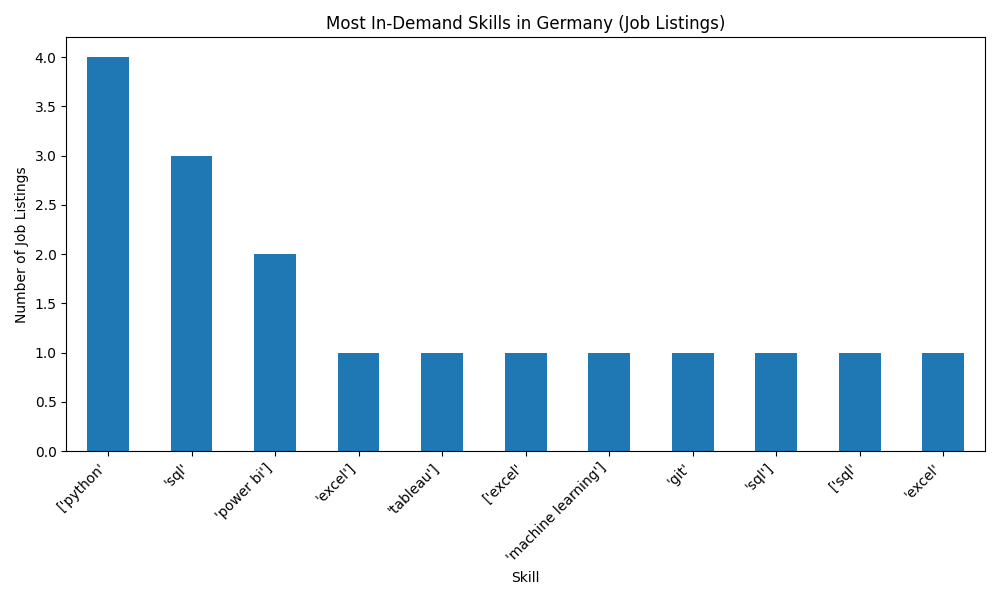
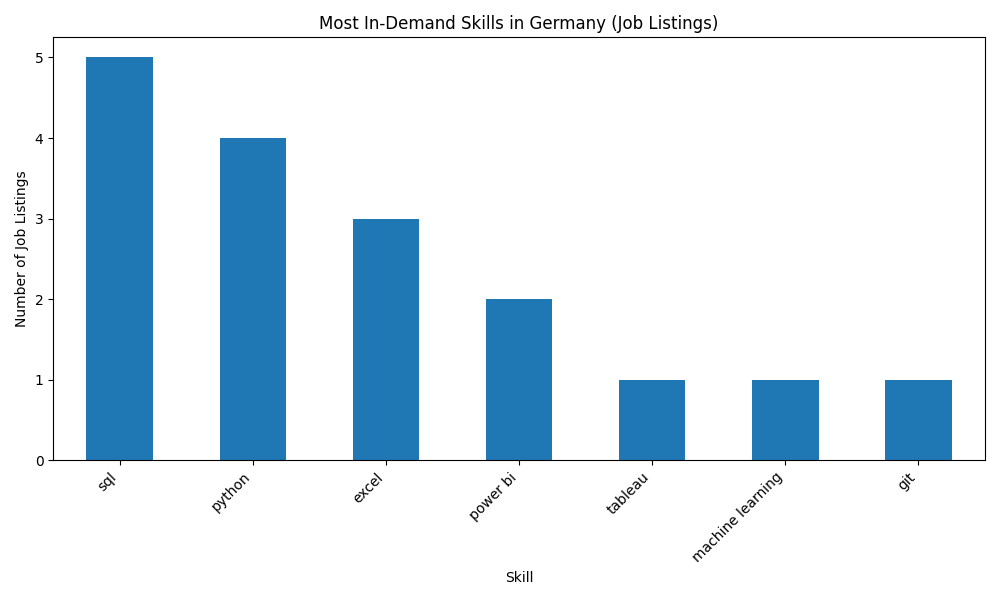
Fix pie chart: replace Series.append() with pd.concat() for pandas 2.x

diff --git a/python/visualizations.py b/python/visualizations.py
@@ -1,13 +1,32 @@
 import pandas as pd
 import matplotlib.pyplot as plt
 from collections import Counter
+import ast  # for converting string lists to actual lists
+import os
+
+# Ensure the charts folder exists
+os.makedirs("charts", exist_ok=True)
 
 # Load cleaned data
 df = pd.read_csv("data/cleaned_job_listings.csv")
 
-# Combine all skills into one list and clean whitespace
-all_skills = df["skills"].dropna().str.cat(sep=",").split(",")
-all_skills = [skill.strip() for skill in all_skills]  # remove extra spaces
+# Convert string representation of lists to actual lists
+def parse_skills(s):
+    try:
+        skills = ast.literal_eval(s)  # converts "['python','sql']" -> ['python','sql']
+        if isinstance(skills, list):
+            return skills
+        return [s]
+    except:
+        return [s]
+
+# Extract all skills
+all_skills = []
+for val in df["skills"].dropna():
+    all_skills.extend(parse_skills(val))
+
+# Clean whitespace
+all_skills = [skill.strip() for skill in all_skills]
 
 # Count frequency of each unique skill
 skill_counts = Counter(all_skills)
@@ -15,14 +34,32 @@ skill_counts = Counter(all_skills)
 # Convert to pandas Series for plotting
 skill_counts_series = pd.Series(skill_counts).sort_values(ascending=False)
 
-# Plot
-skill_counts_series.plot(kind="bar", figsize=(10,6))
-plt.title("Most In-Demand Skills in Germany (Job Listings)")
+# -----------------------------
+# Top 3 Most In-Demand Skills
+# -----------------------------
+top_3_skills = skill_counts_series.head(3)
+
+plt.figure(figsize=(6,4))
+top_3_skills.plot(kind="bar", color='orange')
+plt.title("Top 3 In-Demand Skills in Germany")
 plt.xlabel("Skill")
 plt.ylabel("Number of Job Listings")
-plt.xticks(rotation=45, ha="right")
+plt.xticks(rotation=0)
 plt.tight_layout()
+plt.savefig("charts/top_3_skills.png")
+plt.show()
 
-# Save chart
-plt.savefig("charts/skill_demand.png")
+# -----------------------------
+# (Top 5 + Other)
+# -----------------------------
+top_5 = skill_counts_series.head(5)
+other = skill_counts_series[5:].sum()
+pie_data = pd.concat([top_5, pd.Series({'Other': other})])
+
+plt.figure(figsize=(6,6))
+pie_data.plot(kind="pie", autopct='%1.1f%%', startangle=140)
+plt.title("Skill Demand Distribution (Top 5 + Other)")
+plt.ylabel("")  # remove y-label
+plt.tight_layout()
+plt.savefig("charts/skill_distribution.png")
 plt.show()
